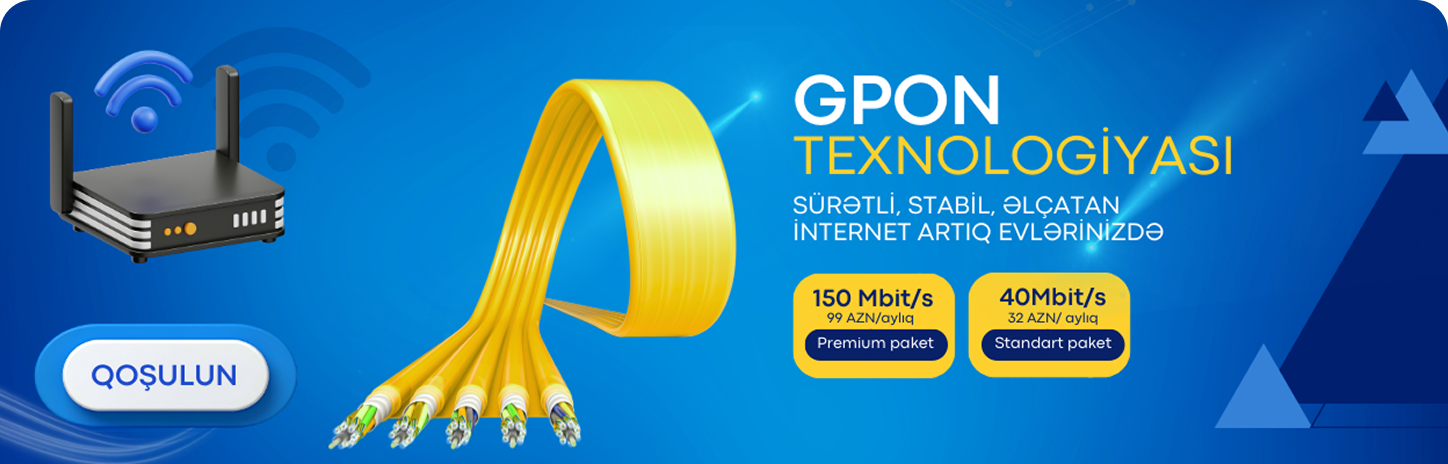
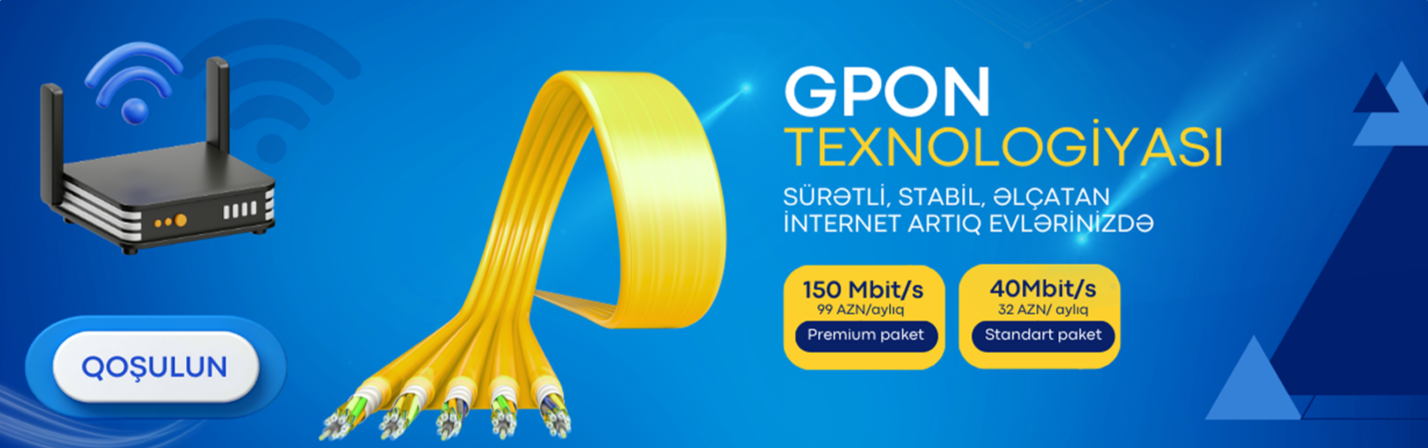
some section changed

diff --git a/src/css/pages/main.css b/src/css/pages/main.css
@@ -220,13 +220,12 @@ body {
 
 .first-section .carousel-item {
   overflow: hidden;
-  border-radius: 12px;
 }
 
 .first-carousel-img {
   display: block;
   width: 100%;
-  height: 400px;
+  height: auto;
   object-fit: cover;
   transition: transform 0.6s ease;
 }